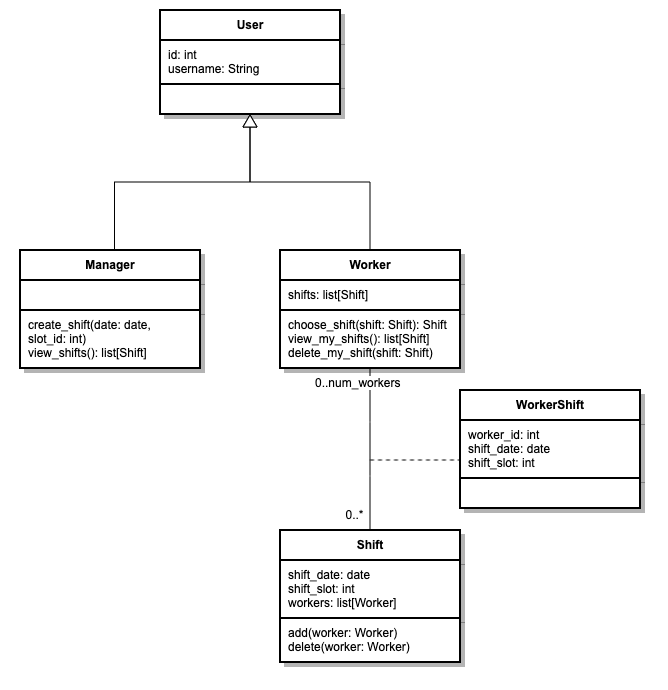
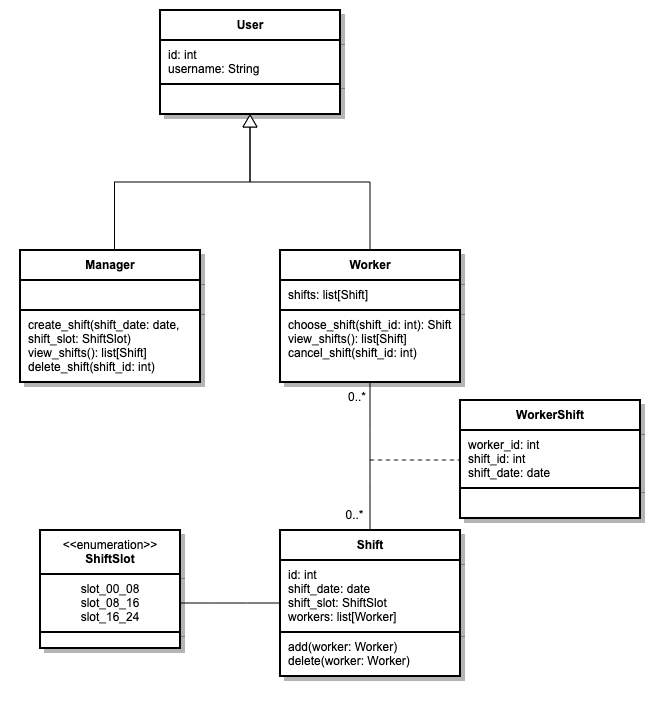
Update README

diff --git a/src/shifts/app/api/api_v1/endpoints/shift.py b/src/shifts/app/api/api_v1/endpoints/shift.py
@@ -1,10 +1,9 @@
 # pylint: disable=E1101
-from fastapi import APIRouter, Depends, HTTPException
-from sqlalchemy.orm import Session
-
 from app import crud
 from app.api import deps
 from app.schemas.shift import Shift, ShiftCreate
+from fastapi import APIRouter, Depends, HTTPException
+from sqlalchemy.orm import Session
 
 router = APIRouter()
 

diff --git a/README.md b/README.md
@@ -2,7 +2,7 @@
 
 Simple REST API application using FastAPI
 
-## Technologies used
+## Tools used
 
 - [FastAPI](https://fastapi.tiangolo.com/)
     - [pydantic](https://pydantic-docs.helpmanual.io/)
@@ -23,7 +23,7 @@ The requirements for the application are as follows.
 - The application must store Shifts by multiple Workers.
 - A Shift must be 8 hours long (slots: 0-8, 8-16, 16-24).
 - A Worker must have zero or more Shifts over multiple days.
-- A Worker must have zero or one Shift per day.
+- A Worker must have zero or one Shift per day. (i.e. A worker never has two shifts on the same day.)
 - The application must provide REST APIs.
 
 
@@ -40,8 +40,7 @@ In addition, the following assumptions have been made:
 
 The following functionality is out of scope in the current version.
 
-- Authentication (signup, login)
-- Authorisation 
+- User authentication (signup, login) and authorisation 
 - Front-end application
 
 
@@ -61,22 +60,31 @@ The overview of the application design is as follows.
 
 - As a Worker, I want to choose a Shift so that Manager can see when I work.
 - As a Worker, I want to cancel my Shift so that another worker can choose the Shift.
-- As a Manager, I want to view all Shifts so that I can make staffing plans.
+- As a Worker, I want to view Shifts so that I can make my work schedule.
+- As a Manager, I want to view Shifts so that I can make staffing plans.
 - As a Manager, I want to create Shifts so that Workers can choose them.
+- As a Manager, I want to delete Shifts so that I can adjust staffing plans.
 
 ![User case diagram](images/shifts_use_cases.png)
 
 
 ### Class diagram
 
-There are two main points to consider.
+There are several points to consider.
 
-1. Worker and Manager have common attributes, such as `username`. Therefore, it would be convenient
+1. `Worker` and `Manager` have common attributes, such as `username`. Therefore, it would be convenient
    to consider that they are subclasses of a parent class `User`. 
 
 2. A `Worker` can have multiple `Shift`s, and a `Shift` can have multiple `Worker`s. 
    Therefore, the relationship between `Worker` and `Shift` is considered many-to-many. 
    Implementing this relationship would require an association class `WorkerShift` that connects `Worker` and `Shift`.
+
+3. As a `Worker` never has two shifts on the same day, `WorkerShift` should have the attribute `shift_date`. It makes it 
+   easier to create a unique constraint on the attributes (`worker_id`, `shift_date`).
+
+4. As there are only three shift slots a day (slots: 0-8, 8-16, 16-24), the attribute `shift_slot` in `Shift` should be an enumeration
+   of three values.
+   
 
 To summarise, the class diagram is shown below.
 
@@ -105,7 +113,7 @@ The application is built using the [FastAPI](https://fastapi.tiangolo.com/) fram
 
 ### Models
 
-The following Pydantic models (`src/shifts/app/schemas` directory in the repository) are implemented based on the class diagram shown above.
+The following Pydantic models ([`src/shifts/app/schemas`](https://github.com/mikio-dev/shifts/blob/main/src/shifts/app/schemas/) directory in the repository) are implemented based on the class diagram shown above.
 
 - `User`
 - `Worker`
@@ -115,12 +123,12 @@ The following Pydantic models (`src/shifts/app/schemas` directory in the reposit
 
 As discussed earlier, `Worker` and `Manager` inherit from `User`. `WorkerShift` works as an association class that connects `Worker` and `Shift`.
 
-The classes are mapped to the database tables using SQLAlchemy ORM. They are stored in the `src/shifts/app/models` directory in the repository.
+The classes are mapped to the database tables using SQLAlchemy ORM. They are stored in the [`src/shifts/app/models`](https://github.com/mikio-dev/shifts/blob/main/src/shifts/app/models/) directory in the repository.
 
 
 ### Routers
 
-The application has the following REST API endpoints, defined in the `src/shifts/app/api` directory.
+The application has the following REST API endpoints, defined in the [`src/shifts/app/api`](https://github.com/mikio-dev/shifts/blob/main/src/shifts/app/api/) directory.
 
 - `worker`
 - `manager`
@@ -132,7 +140,7 @@ FastAPI automatically generates the Open API documentation, which lists all the 
 
 ## Unit tests
 
-All unit test files are stored in the `src/shifts/tests` directory. 
+All unit test files are stored in the [`src/shifts/tests`](https://github.com/mikio-dev/shifts/blob/main/src/shifts/tests) directory. 
 
 To execute the unit tests, run the `pytest` command in the `src/shifts` directory using `poetry`:
 
@@ -146,7 +154,12 @@ In addition, a Github action runs the `pytest` command every time code change is
 
 ## Deployment
 
-The application can be run in a Docker environment. Run the `docker-compose` command at the root of the directory.
+The application runs in Docker. 
+
+
+### Local environment
+
+The application can run in a local Docker environment. Run the `docker-compose` command at the root of the directory.
 
 ```
 $ docker-compose up -d
@@ -157,3 +170,16 @@ This command will build the necessary Docker images and start the application an
 The Open API document is accessible at [`http://localhost:8001/docs`](http://localhost:8001/docs), which can be used to access the APIs.
 
 
+### Cloud environment
+
+The application can be deployed to a Docker environment in the cloud. The Github action ([`.github/workflows/heroku.yml`](https://github.com/mikio-dev/shifts/blob/main/.github/workflows/heroku.yml)) contains the actions to deploy the application to [Heroku](https://www.heroku.com/). 
+
+The following steps are required to run the actions:
+
+1. Create a Heroku app with a Heroku Postgres add-on. 
+
+   The `DATABASE_URL` config var needs to have a value starting with `postgresql://...` instead of `postgres://...`.
+
+2. Create the secrets `HEROKU_APP_NAME` and `HEROKU_API_KEY` in Github.
+
+   `HEROKU_APP_NAME` is the application name created in the previous step. `HEROKU_API_KEY` is the API key, which can be found in the Account Settings on Heroku.
